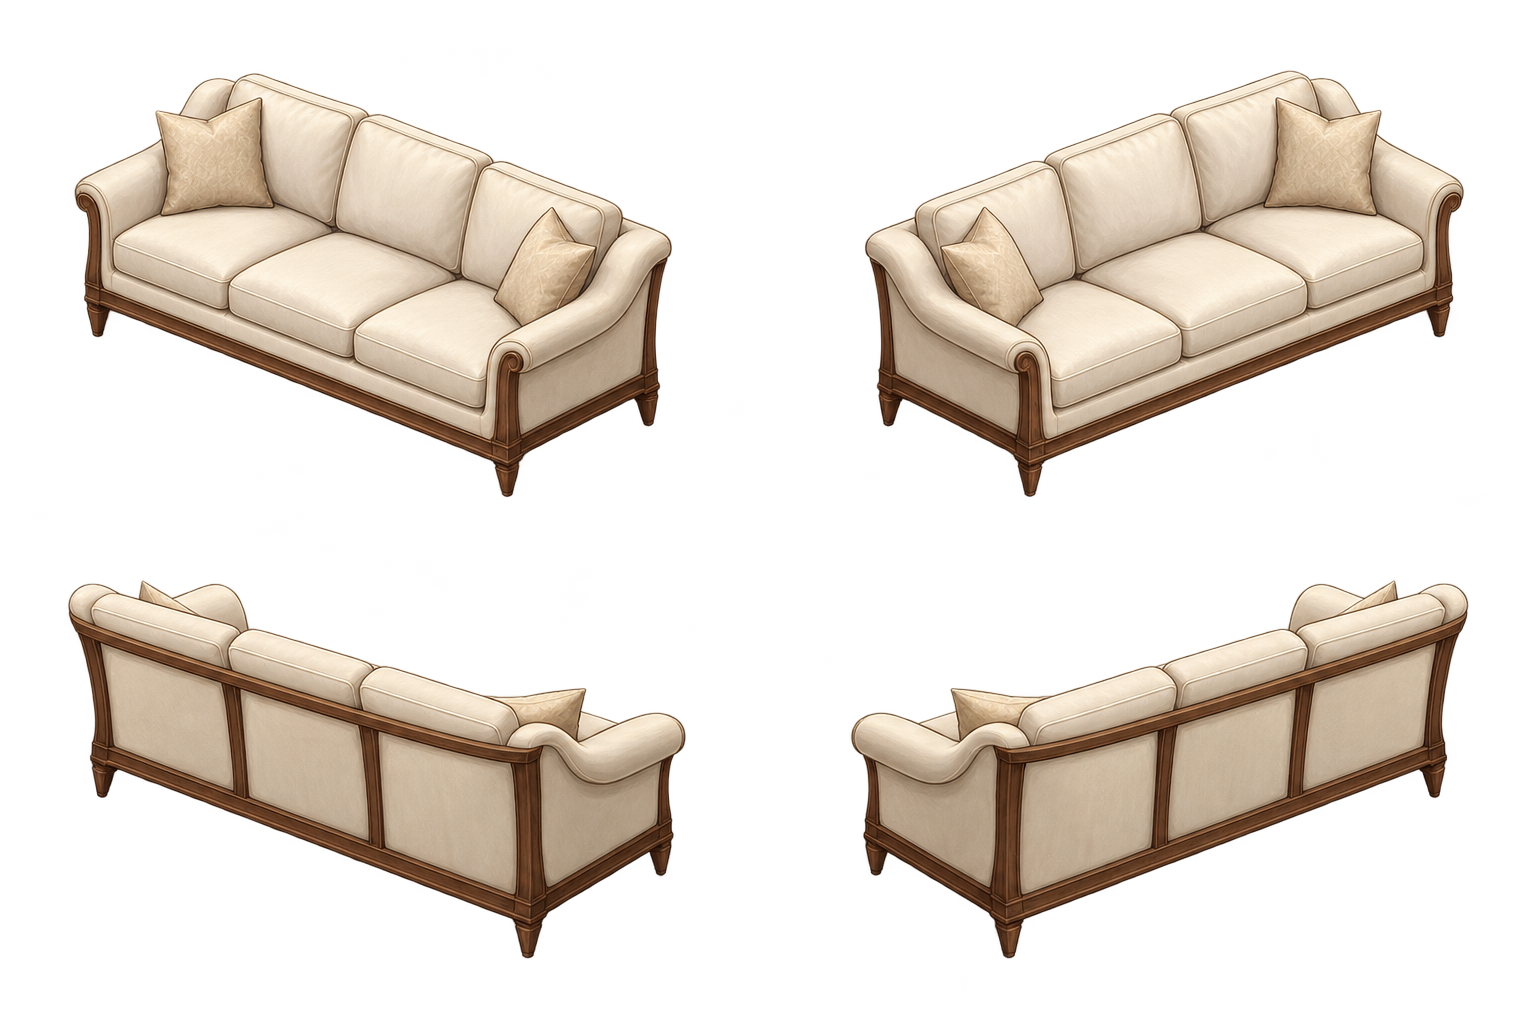
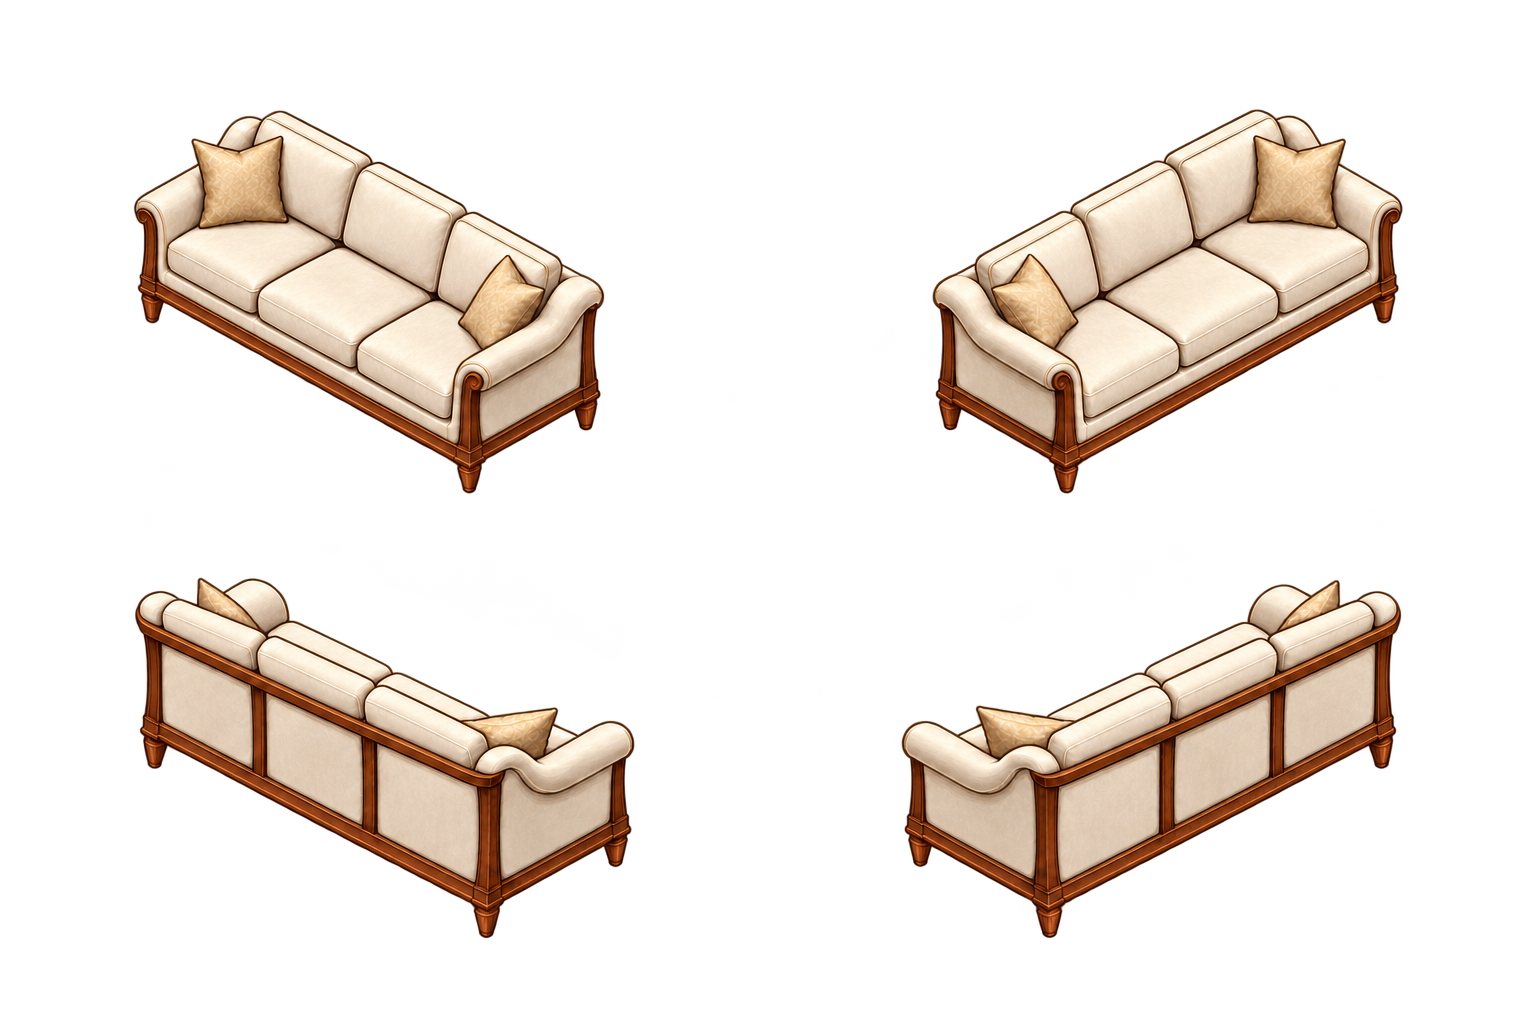
Ground sofa and coffee table sprites and draw selection beneath furniture

diff --git a/docs/games/ast-home/mansion.js b/docs/games/ast-home/mansion.js
@@ -1,7 +1,7 @@
 import {TEST_KEY,readTestState,mountTestTools} from './test-session.mjs';
 import {request} from './ast-bridge.js?v=20261019-house1';
 import {SharedHomeSession} from './shared-session.mjs';
-import {WORLD,AREAS,STAIR,NAVIGATION,HOUSE_ITEMS,definition,size,project as groundProject,unproject as groundUnproject,canBuild,floorItems,furniturePoint,spriteBox} from './house-layout.mjs?v=20261019-grid2';
+import {WORLD,AREAS,STAIR,NAVIGATION,HOUSE_ITEMS,definition,size,project as groundProject,unproject as groundUnproject,canBuild,floorItems,furniturePoint,spriteBox} from './house-layout.mjs?v=20261019-contact1';
 
 const testMode=new URLSearchParams(location.search).get('mode')==='test';
 const shared=new URLSearchParams(location.search).get('mode')==='shared';
@@ -43,17 +43,18 @@ function navigate(target){if(blocked())return;if(target==='exit')leaveHouse();el
 function renderPortals(){const host=$('housePortals');host.replaceChildren();for(const n of NAVIGATION.filter(n=>n.floor===floor)){const b=document.createElement('button');b.className='house-portal';b.dataset.portal=n.id;b.textContent=n.label;b.setAttribute('aria-label',n.target==='exit'?'테라스로 나가기':typeof n.target==='number'?n.target+'층으로 이동':AREAS[n.target].name+' 입장');b.style.left=((camera.x+n.x*2048*camera.scale)/2048*100)+'%';b.style.top=((camera.y+n.y*1536*camera.scale)/1536*100)+'%';b.disabled=!!draft||busy;b.onclick=()=>navigate(n.target);host.append(b)}}
 function surfacePoints(item){const table=state.items.find(i=>i.uid===parent);const p=furniturePoint({...item,area,parent},sceneItems());let [w,h]=size(item);if(table.rotation%2)[w,h]=[h,w];return quad(p.x,p.y,w,h).map(p=>({x:p.x,y:p.y-45}))}
 function targetPolygon(item){if(item.parent){const old=parent;parent=item.parent;const points=surfacePoints(item);parent=old;return points}const a=AREAS[item.area];const [w,h]=size(item);return quad(a.x+item.x,a.y+item.y,w,h,item.area)}
+function paintFootprint(item){if(item.uid===draft?.uid){setPath(targetPolygon(item));ctx.fillStyle=canBuild(item,state.items)?'#6bb88a66':'#c9525277';ctx.fill();ctx.strokeStyle='white';ctx.lineWidth=2;ctx.stroke()}else if(item.uid===selected){setPath(targetPolygon(item));ctx.strokeStyle='#fff1a4';ctx.lineWidth=3;ctx.stroke()}}
+function paintContactShadow(item){if(!['coffee-table','elegant-sofa'].includes(item.type))return;const p=furniturePoint(item,sceneItems()),[w,h]=size(item),c=project(p.x+w/2,p.y+h/2,item.area),tile=AREAS[item.area].floor===1?(item.area==='hall'?32.5:30):30;ctx.save();ctx.fillStyle='#30251626';ctx.shadowColor='#30251644';ctx.shadowBlur=7;ctx.beginPath();ctx.ellipse(c.x,c.y,(w+h)*tile*.42,(w+h)*(tile===32.5?19.8:AREAS[item.area].floor===1?18:15)*.38,0,0,Math.PI*2);ctx.fill();ctx.restore()}
 function paintItem(item,alpha=1){const frame=itemFrame(item),box=spriteBox(item,frame,sceneItems());ctx.globalAlpha=alpha;ctx.drawImage(sprites[item.type],frame.x,frame.y,frame.w,frame.h,box.x,box.y,box.w,box.h);ctx.globalAlpha=1;return {...box,uid:item.uid}}
 function draw(){if(!ready){update();return}ctx.clearRect(0,0,2048,1536);ctx.save();ctx.translate(camera.x,camera.y);ctx.scale(camera.scale,camera.scale);ctx.drawImage(backgrounds[floor],0,0,2048,1536);
  for(const [id,a] of Object.entries(AREAS).filter(([,a])=>a.floor===floor)){setPath(quad(a.x,a.y,a.w,a.h,id));ctx.strokeStyle='#806d4b33';ctx.lineWidth=1;if(!area)ctx.stroke();const p=project(a.x+a.w/2,a.y+a.h/2,id);if(!area){ctx.font='600 24px system-ui';ctx.textAlign='center';ctx.fillStyle='#fff9ebec';ctx.fillRect(p.x-92,p.y-26,184,38);ctx.fillStyle='#705637';ctx.fillText(a.name.split(' · ')[0],p.x,p.y)}}
  const list=floorItems(state.items,floor).filter(i=>i.uid!==draft?.uid);if(draft)list.push(draft);
  const parents=list.filter(i=>!i.parent).sort((a,b)=>{const pa=furniturePoint(a,sceneItems()),pb=furniturePoint(b,sceneItems()),[w,h]=size(a),[bw,bh]=size(b);return project(pa.x+w,pa.y+h,a.area).y-project(pb.x+bw,pb.y+bh,b.area).y});hitboxes=[];
  if(draft&&!draft.parent){const a=AREAS[draft.area];for(let x=a.kind==='practice'?1:0;x<a.w-(a.kind==='practice'?1:0);x++)for(let y=a.kind==='practice'?1:0;y<a.h-(a.kind==='practice'?1:0);y++){if(!canBuild({uid:'grid-cell',type:'plant',area:draft.area,x,y,rotation:0},[]))continue;setPath(quad(a.x+x,a.y+y,1,1,draft.area));ctx.strokeStyle='#625a4677';ctx.lineWidth=.8;ctx.stroke()}}
- for(const item of parents){const box=paintItem(item,item.uid===draft?.uid?.toString()? .7:1);if(item.uid!==draft?.uid)hitboxes.push(box);if(item.uid===selected){setPath(targetPolygon(item));ctx.strokeStyle='#fff1a4';ctx.lineWidth=3;ctx.stroke()}
+ for(const item of parents){paintContactShadow(item);paintFootprint(item);const box=paintItem(item,item.uid===draft?.uid? .7:1);if(item.uid!==draft?.uid)hitboxes.push(box);
    if(item.uid===parent){const d=definition(item.type);for(let x=0;x<d.surface.w;x++)for(let y=0;y<d.surface.h;y++){setPath(surfacePoints({type:'bread',x,y,rotation:0}));ctx.fillStyle='#fff6d733';ctx.fill();ctx.strokeStyle='#b38a47';ctx.lineWidth=1;ctx.stroke()}}
-   const children=list.filter(i=>i.parent===item.uid).sort((a,b)=>a.x+a.y-b.x-b.y);for(const child of children){const box=paintItem(child,child.uid===draft?.uid? .7:1);if(child.uid!==draft?.uid)hitboxes.push(box)}
+   const children=list.filter(i=>i.parent===item.uid).sort((a,b)=>a.x+a.y-b.x-b.y);for(const child of children){paintFootprint(child);const box=paintItem(child,child.uid===draft?.uid? .7:1);if(child.uid!==draft?.uid)hitboxes.push(box)}
  }
- if(draft){setPath(targetPolygon(draft));ctx.fillStyle=canBuild(draft,state.items)?'#6bb88a66':'#c9525277';ctx.fill();ctx.strokeStyle='white';ctx.lineWidth=2;ctx.stroke()}
  ctx.restore();update();}
 function update(){renderPortals();const a=area&&AREAS[area];$('areaName').textContent=parent?'식탁 위 · 음식 배치':a?.name||`${floor}층 · 영역을 선택하세요`;$('areaHint').textContent=parent?'음식을 구매해 식탁 셀에 놓아보세요.':a?.kind==='practice'?'피아노·기타·드럼·스피커 등 연습 장비와 가구':a?.kind==='dining'?'대형 식탁을 배치하고, 선택해 식탁 위도 꾸며보세요.':'드래그로 둘러보고, 방을 누르면 전용 아이템이 열립니다.';$('houseWallet').textContent=connected?`${state.coins.toLocaleString()} 아스트`:busy?'연결 중…':'잔액 확인 필요';$('houseShop').disabled=!supported||!ready||!area||!!draft||busy||!connected;$('houseSync').disabled=busy;$('houseActions').hidden=!selected||!!draft;$('houseDraft').hidden=!draft;$('draftConfirm').disabled=busy||!connected||!draft||!canBuild(draft,state.items)||(draft.purchase&&state.coins<definition(draft.type).price);$('draftCost').textContent=draft?.purchase?definition(draft.type).price:0;const i=state.items.find(i=>i.uid===selected);$('decorateTable').hidden=i?.type!=='banquet-table';$('houseDetail').textContent=i?`${definition(i.type)?.name} · ${names[i.placedBy]||i.placedBy||'테스트 구매'}${i.purchasedAt?' · '+new Intl.DateTimeFormat('ko-KR',{timeZone:'Asia/Seoul',month:'2-digit',day:'2-digit',hour:'2-digit',minute:'2-digit',hour12:false}).format(new Date(i.purchasedAt)):''}`:'';$('housePercent').textContent=Math.round(camera.scale*100)+'%';$('floorOne').setAttribute('aria-pressed',floor===1);$('floorTwo').setAttribute('aria-pressed',floor===2);$('stairsButton').textContent=floor===1?'↑ 2층 올라가기':'↓ 1층 내려가기';for(const b of $('areaButtons').children)b.setAttribute('aria-pressed',b.dataset.area===area)}
 function startDraft(item,purchase){if(busy||!connected||!supported)return;if(purchase&&newItems.has(item.type)&&catalogVersion<2){status('새 가구 구매에는 최신 Apps Script 배포가 필요합니다.');return;}draft={...item,purchase};selected=null;status('가구를 드래그하거나 셀을 누른 뒤 O로 확정하세요.');draw()}
@@ -74,8 +75,8 @@ async function sync(){if(busy)return;busy=true;connected=!shared;update();try{if
 $('houseSync').onclick=sync;
 $('draftConfirm').onclick=async()=>{if(!draft||busy||!connected||!canBuild(draft,state.items))return;const {purchase,...item}=draft,d=definition(item.type);if(purchase&&state.coins<d.price)return;busy=true;update();try{if(shared){const r=await session.commit(item,purchase,revision);apply(r);status(r.status==='conflict'?'다른 팀원이 먼저 변경했습니다. 최신 상태로 새로고침했습니다.':r.status==='insufficient'?'아스트가 부족합니다.':'배치를 저장했습니다.')}else{if(purchase){state.coins-=d.price;state.items.push({...item,purchasedAt:Date.now(),purchasedPrice:d.price,placedBy:'나'})}else state.items=state.items.map(i=>i.uid===item.uid?item:i);draft=null;selected=null;save();status('배치를 확정했습니다.')}}catch(e){connected=false;status(e.message+' 새로고침으로 구매 결과를 확인하세요.')}finally{busy=false;draw()}};
 function load(src){return new Promise((resolve,reject)=>{const im=new Image();im.onload=()=>resolve(im);im.onerror=()=>reject(new Error('이미지 불러오기 실패: '+src));im.src=src})}
-function scan(im){const c=document.createElement('canvas');c.width=im.width;c.height=im.height;const g=c.getContext('2d');g.drawImage(im,0,0);const data=g.getImageData(0,0,c.width,c.height).data;return [0,1,2,3].map(n=>{const sx=Math.floor(n%2*c.width/2),sy=Math.floor(Math.floor(n/2)*c.height/2),ex=Math.floor((n%2+1)*c.width/2),ey=Math.floor((Math.floor(n/2)+1)*c.height/2);let l=ex,r=sx,t=ey,b=sy;for(let y=sy;y<ey;y++)for(let x=sx;x<ex;x++)if(data[(y*c.width+x)*4+3]>40){l=Math.min(l,x);r=Math.max(r,x);t=Math.min(t,y);b=Math.max(b,y)}return {x:l,y:t,w:r-l+1,h:b-t+1}})}
+function scan(im){const c=document.createElement('canvas');c.width=im.width;c.height=im.height;const g=c.getContext('2d');g.drawImage(im,0,0);const data=g.getImageData(0,0,c.width,c.height).data;return [0,1,2,3].map(n=>{const sx=Math.floor(n%2*c.width/2),sy=Math.floor(Math.floor(n/2)*c.height/2),ex=Math.floor((n%2+1)*c.width/2),ey=Math.floor((Math.floor(n/2)+1)*c.height/2);let l=ex,r=sx,t=ey,b=sy;for(let y=sy;y<ey;y++)for(let x=sx;x<ex;x++)if(data[(y*c.width+x)*4+3]>40){l=Math.min(l,x);r=Math.max(r,x);t=Math.min(t,y);b=Math.max(b,y)}let opaqueBottom=b;while(opaqueBottom>t&&!Array.from({length:r-l+1},(_,j)=>data[(opaqueBottom*c.width+l+j)*4+3]).some(a=>a>180))opaqueBottom--;let sum=0,count=0;for(let y=Math.max(t,opaqueBottom-2);y<=opaqueBottom;y++)for(let x=l;x<=r;x++)if(data[(y*c.width+x)*4+3]>180){sum+=x+.5;count++}return {x:l,y:t,w:r-l+1,h:b-t+1,contactU:count?(sum/count-l)/(r-l+1):.5,contactV:(opaqueBottom+1-t)/(b-t+1)}})}
 function renderStore(){const kind=parent?'surface':AREAS[area].kind;$('houseStoreTitle').textContent=parent?'식탁 위 음식':AREAS[area].name+' · 아이템 구매';$('storeHint').textContent=parent?'음식은 식탁 위에만 배치됩니다.':'이 영역에 맞는 아이템만 표시됩니다.';const cards=$('houseCards');cards.replaceChildren();for(const d of HOUSE_ITEMS.filter(d=>d.places.includes(kind))){const b=document.createElement('button');b.className='card';b.dataset.type=d.id;b.disabled=busy||!connected||!supported||state.coins<d.price||(newItems.has(d.id)&&catalogVersion<2);b.classList.toggle('insufficient',b.disabled);const c=document.createElement('canvas');c.width=180;c.height=140;const f=frames[d.id][0],scale=Math.min(165/f.w,130/f.h);c.getContext('2d').drawImage(sprites[d.id],f.x,f.y,f.w,f.h,(180-f.w*scale)/2,(140-f.h*scale)/2,f.w*scale,f.h*scale);const name=document.createElement('strong');name.textContent=d.name;const details=document.createElement('small');details.textContent=newItems.has(d.id)&&catalogVersion<2?'서버 업데이트 필요':d.category+' · '+d.w+' × '+d.h+'셀';const cost=document.createElement('span'),coin=document.createElement('img');coin.src='assets/ui/ast-coin.png';coin.className='ast-coin';coin.alt='아스트';cost.append(coin,document.createTextNode(String(d.price)));b.append(c,name,details,cost);b.onclick=()=>{if(busy||!connected||state.coins<d.price)return;$('houseStore').close();const item={uid:crypto.randomUUID(),type:d.id,area,x:0,y:0,rotation:0};if(parent)item.parent=parent;const bounds=parent?definition(state.items.find(i=>i.uid===parent).type).surface:AREAS[area];let found=false;for(let y=0;y<bounds.h&&!found;y++)for(let x=0;x<bounds.w&&!found;x++){item.x=x;item.y=y;if(canBuild(item,state.items))found=true}if(!found){status('이 영역에 빈 공간이 없습니다.');return}startDraft(item,true)};cards.append(b)}}
 $('houseShop').onclick=async()=>{if(!area||draft||busy)return;renderStore();$('houseStore').showModal();if(shared){$('storeHint').textContent='최신 아스트 잔액 확인 중…';await sync();if(!connected){$('storeHint').textContent='서버 연결을 확인한 뒤 다시 시도하세요.';renderStore();return}renderStore()}};$('houseStoreClose').onclick=()=>$('houseStore').close();
-async function start(){try{const work=[1,2].map(async n=>{backgrounds[n]=await load(n===1?'assets/house/floor-1-approved-v5.png':'assets/house/floor-2.png')});for(const d of HOUSE_ITEMS)work.push((async()=>{const existing=['plant','bookshelf','chair','coffee-table'].includes(d.asset);const im=await load(`assets/${existing?'furniture':'house'}/${d.asset}-4dir.png${d.asset==='tv-console'?'?v=20261019-tv2':d.asset==='guitar'?'?v=20261019-guitar2':d.asset==='drum-kit'?'?v=20261019-drum2':''}`);sprites[d.id]=im;frames[d.id]=scan(im)})());await Promise.all(work);ready=true;renderAreas();draw();await sync()}catch(e){status(e.message);$('houseSync').onclick=()=>location.reload()}}
+async function start(){try{const work=[1,2].map(async n=>{backgrounds[n]=await load(n===1?'assets/house/floor-1-approved-v5.png':'assets/house/floor-2.png')});for(const d of HOUSE_ITEMS)work.push((async()=>{const existing=['plant','bookshelf','chair'].includes(d.asset);const im=await load(`assets/${existing?'furniture':'house'}/${d.asset==='coffee-table'?'coffee-table-contact':d.asset}-4dir.png${['coffee-table','elegant-sofa'].includes(d.asset)?'?v=20261019-contact1':d.asset==='tv-console'?'?v=20261019-tv2':d.asset==='guitar'?'?v=20261019-guitar2':d.asset==='drum-kit'?'?v=20261019-drum2':''}`);sprites[d.id]=im;frames[d.id]=scan(im)})());await Promise.all(work);ready=true;renderAreas();draw();await sync()}catch(e){status(e.message);$('houseSync').onclick=()=>location.reload()}}
 start();

diff --git a/docs/games/ast-home/index.html b/docs/games/ast-home/index.html
@@ -1,6 +1,6 @@
 <!doctype html>
-<html lang="ko"><head><meta charset="utf-8"><meta name="viewport" content="width=device-width,initial-scale=1"><title>My Home</title><link rel="stylesheet" href="style.css?v=20261019-camera1"><link rel="stylesheet" href="house.css?v=20261019-grid2"></head>
+<html lang="ko"><head><meta charset="utf-8"><meta name="viewport" content="width=device-width,initial-scale=1"><title>My Home</title><link rel="stylesheet" href="style.css?v=20261019-camera1"><link rel="stylesheet" href="house.css?v=20261019-contact1"></head>
 <body><header><strong>MY HOME <small>우리 집 꾸미기</small></strong><div><span class="ast-balance"><img class="ast-coin" src="assets/ui/ast-coin.png" alt=""><span id="wallet">잔액 확인 중…</span></span><button id="retrySync" hidden>다시 연결</button><button id="shopButton">＋ 아이템 구매</button></div></header>
 <main><div id="zoomControls" aria-label="화면 확대"><button id="zoomOut" aria-label="축소" disabled>−</button><button id="zoomReset" aria-label="100%로 초기화">100%</button><button id="zoomIn" aria-label="확대">＋</button></div><button id="enterMansion" hidden aria-label="본관 실내로 입장">↳ ENTER</button><canvas id="game" width="1536" height="1024" aria-label="가구를 선택하고 바닥 셀을 눌러 배치하는 거실"></canvas><p id="status" role="status">가구 이미지를 불러오는 중…</p><div id="actions" hidden><span id="furnitureDetails"></span><button id="move">✥ 이동</button><button id="rotateSelected">↻ 회전</button></div><div id="placement" hidden><button id="rotateDraft">↻ 회전</button><button id="confirm"><span>O 확정</span><span class="confirm-cost"><img class="ast-coin" src="assets/ui/ast-coin.png" alt="아스트"><span id="confirmCost">0</span></span></button><button id="cancel">X 취소</button></div></main>
 <dialog id="shop"><div class="dialogHeading"><h2>가구 구매</h2><button id="closeShop" aria-label="닫기">✕</button></div><p id="shopNotice">가구를 고른 뒤 바닥 셀에 배치하세요. 확정할 때 아스트가 사용됩니다.</p><div id="catalog"></div><small>구매 확정 시 표시된 아스트가 사용됩니다.</small></dialog>
-<script type="module">if(new URLSearchParams(location.search).get("scene")==="mansion"){import("./mansion.js?v=20261019-grid2")}else{import("./game.js?v=20261019-grid2")}</script></body></html>
+<script type="module">if(new URLSearchParams(location.search).get("scene")==="mansion"){import("./mansion.js?v=20261019-contact1")}else{import("./game.js?v=20261019-contact1")}</script></body></html>

diff --git a/apps-script/ast-home/SETUP.md b/apps-script/ast-home/SETUP.md
@@ -1,5 +1,7 @@
 # 본관 실내 확장
 
+소파/커피 테이블은 1층 바닥 각도로 다시 제작한 4방향 시트를 사용한다. 알파 이미지에서 가장 낮은 불투명 다리 끝을 읽어 footprint 앞 모서리에 맞춘다. 선택·배치 footprint는 이미지 뒤에 그린다. 커피 테이블 수정본은 본관 전용이며 기존 테라스 이미지는 유지한다. 제작 프롬프트는 assets/house/ground-contact-prompts.json에 있다.
+
 1층은 `FLOOR_ONE_PLANES`의 공간별 원점/동일 길이 타일 축으로 격자·가구·터치 좌표를 함께 투영한다. 저장된 논리 좌표와 가구 ID/가격은 유지한다. A룸의 앞벽에 가려지는 칸과 계단 그림 영역은 구매·이동 대상에서 제외한다. 2층 좌표 변환은 유지한다.
 
 테스트 URL: `test.html`. 최초 테스트 잔액은 10,000 AST이며 실제 계정 지갑과 분리한다. `mode=test`는 테라스/본관 이동에도 유지되고 동일한 `ast-home-test-v1` 브라우저 저장소의 잔액과 배치를 공유한다. 테스트 초기화 버튼은 해당 테스트 저장소만 비우며, 다시 10,000 AST로 시작한다.
